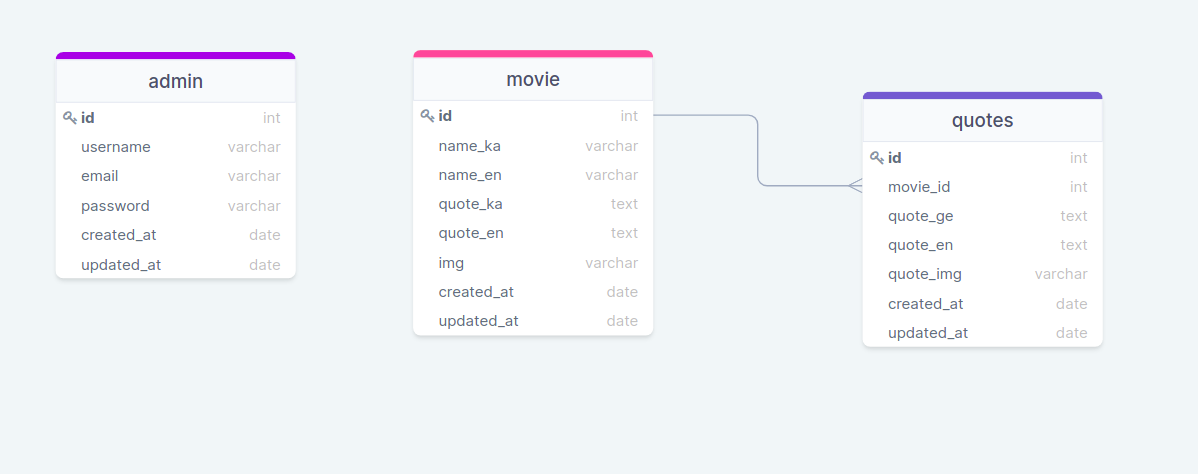
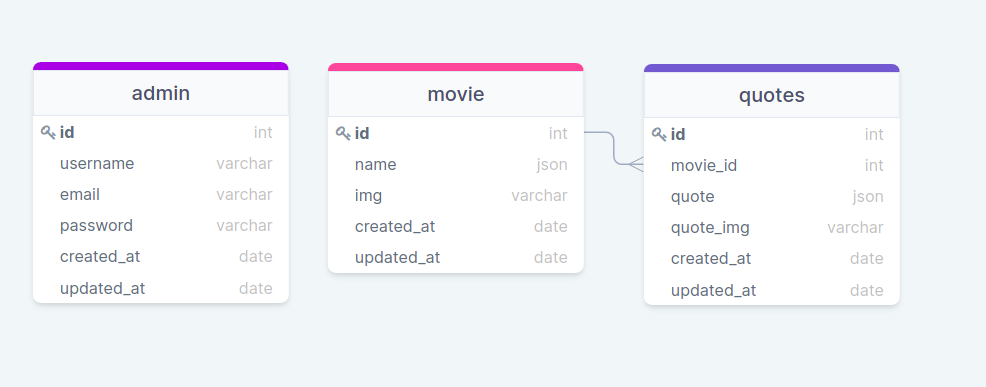
docs: edit readme

diff --git a/resources/views/components/movie.blade.php b/resources/views/components/movie.blade.php
@@ -7,10 +7,14 @@
 
     <div  class="mt-16">
         <h1 class="flex justify-center text-center text-white text-5xl">
-            @if(app()->getLocale() == 'en')
-                “{{ substr(__($quote), 0, 50) }}@if(strlen(__($quote))>50)...@endif”
-            @elseif(app()->getLocale() == 'ge')
-                “{{ substr(__($quote), 0, 150) }}@if(strlen(__($quote))>150)...@endif”
+            @if($quote == null)
+                {{__('dont_have_quote')}}
+            @else
+                @if(app()->getLocale() == 'en')
+                    “{{ substr(__($quote), 0, 50) }}@if(strlen(__($quote))>50)...@endif”
+                @elseif(app()->getLocale() == 'ge')
+                    “{{ substr(__($quote), 0, 150) }}@if(strlen(__($quote))>150)...@endif”
+                @endif
             @endif
         </h1>
     </div>

diff --git a/app/Http/Controllers/HomeController.php b/app/Http/Controllers/HomeController.php
@@ -15,7 +15,11 @@ class HomeController extends Controller
         if ($movie->count() > 0){
             $movie = Movie::all()->random();
         }
-        $quote = $movie->quotes->first()->quote;
+        if ($movie->quotes->count() > 0){
+            $quote = $movie->quotes->first()->quote;
+        } else {
+            $quote = null;
+        }
         return view('welcome', [
             'movie' => $movie,
             'quote' => $quote

diff --git a/README.md b/README.md
@@ -10,6 +10,7 @@
 ## Table of Contents
 
 * [Prerequisites](#prerequisites)
+* [Package](#package)
 * [Getting started](#getting-started)
 * [Database tables](#database-tables)
 * [Migrations](#migration)
@@ -21,6 +22,12 @@
 * <img src="readme/php.jpg" width="35" style="position: relative; top: 4px" /> *PHP@8.0 and up*
 * <img src="readme/npm.png" width="35" style="position: relative; top: 4px" /> *npm@6 and up*
 * <img src="readme/composer.png" width="35" style="position: relative; top: 6px" /> *composer@2.1.9*
+
+# Package
+
+* [*spatie/laravel-translatable ^4.4*](https://github.com/spatie/laravel-translatable)
+* [*codezero-be / laravel-unique-translation*](https://github.com/codezero-be/laravel-unique-translation)
+
 
 ## Getting started
 
